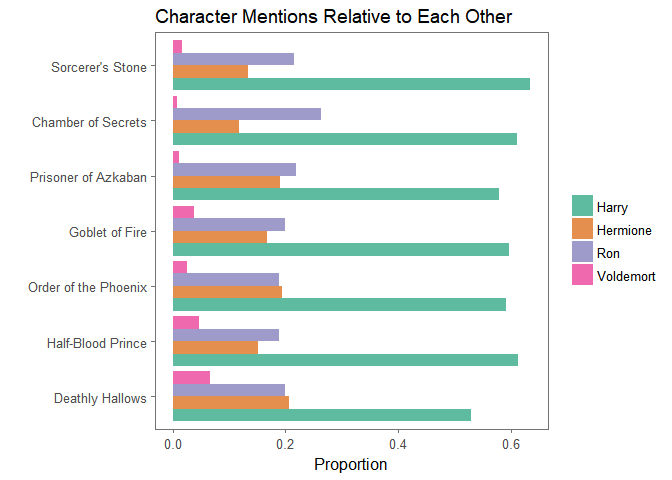
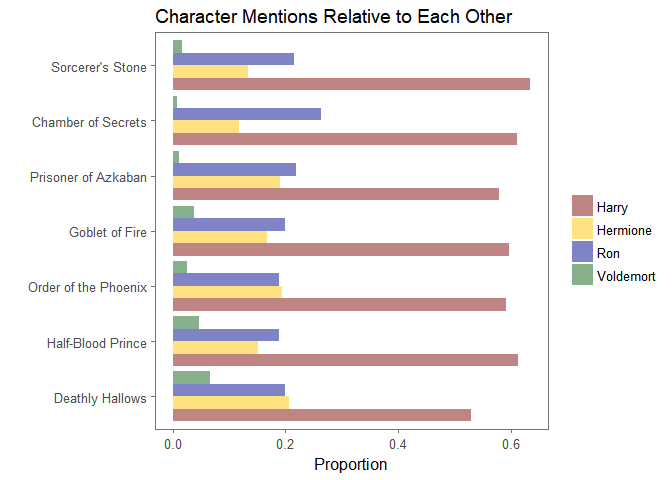
tf-idf

Changed region(s): [[0.25, 0.0625, 0.8125, 0.875], [0.8438, 0.4062, 0.9062, 0.5938]]

diff --git a/Harry_Potter_Text_Analysis.md b/Harry_Potter_Text_Analysis.md
@@ -58,6 +58,8 @@ I've identified the 4 main characters as our characters of interest. Let's find 
 ``` r
 characters_of_interest <- c("harry" = "Harry", "ron" = "Ron", "hermione" = "Hermione", "voldemort" = "Voldemort")
 
+book_colors <- c("#7F0909", "#FFC500", "#0D6217", "#946B2D", "#000A90", "#000000", "#AAAAAA")
+
 all_books_raw %>%
   count(book, word) %>%
   group_by(book) %>%
@@ -67,7 +69,7 @@ all_books_raw %>%
   geom_bar(stat = "identity", alpha = .5) +
   facet_grid(.~word,  scales = "free", labeller = as_labeller(characters_of_interest)) +
   scale_x_discrete(limits = rev(levels(all_books_raw$book))) + 
-  scale_fill_brewer(guide = FALSE, palette = "Set1") +
+  scale_fill_manual(guide = FALSE, values = book_colors) +
   coord_flip() +
   labs(title = "Proportion of Character Mentions", x = "", y = "Proportion of All Words") +
   theme_few() +
@@ -81,14 +83,16 @@ all_books_raw %>%
 Now let's find out the popularity of each character within each book. For example, we can look at how many times Ron was mentioned compared to the total mentions of all 4 characters.
 
 ``` r
+character_colors <- c("#7F0909", "#FFC500",  "#000A90","#0D6217")
+
 all_books_raw %>%
   filter(word %in% names(characters_of_interest)) %>%
   count(book, word) %>%
   group_by(book) %>%
   mutate(char_freq_by_book = n/sum(n)) %>%
   ggplot(aes(x = book, y = char_freq_by_book, fill = word)) + 
-  geom_bar(stat = "identity", alpha = .7, position = "dodge") +
-  scale_fill_brewer(palette = "Dark2", labels = c("Harry", "Hermione", "Ron", "Voldemort")) +
+  geom_bar(stat = "identity", alpha = .5, position = "dodge") +
+  scale_fill_manual(values = character_colors, labels = c("Harry", "Hermione", "Ron", "Voldemort")) +
   scale_x_discrete(limits = rev(levels(all_books_raw$book))) + 
   coord_flip() +
   labs(title = "Character Mentions Relative to Each Other", x = "", 
@@ -99,3 +103,34 @@ all_books_raw %>%
 ```
 
 ![](Harry_Potter_Text_Analysis_files/figure-markdown_github/unnamed-chunk-4-1.png)
+
+tf-idf: What words are uniquely important to each book?
+-------------------------------------------------------
+
+``` r
+all_books_tf_idf <- all_books_raw %>%
+  anti_join(stop_words) %>%
+  count(book, word) %>%
+  bind_tf_idf(word, book, n) %>%
+  group_by(book) %>%
+  top_n(10, tf_idf) %>%
+  ungroup() %>%
+  arrange(book, tf_idf) %>%
+  mutate(order = row_number())
+
+# Need to reorder by tf-idf within each book
+
+ggplot(all_books_tf_idf, aes(x = order, y = tf_idf, fill = book)) + 
+  geom_col(show.legend = FALSE, alpha = .7) +
+  scale_x_continuous(breaks = all_books_tf_idf$order, labels = all_books_tf_idf$word) +
+  scale_fill_manual(values = book_colors) + 
+  facet_wrap(~book, ncol = 3, scales = "free") +
+  coord_flip() +
+  labs(title = "Top 10 tf-idf Words in the Harry Potter Series", y = "") +
+  theme_bw() +
+  theme(strip.background = element_blank(),
+        strip.text = element_text(size = 11),
+        axis.text.y = element_text(size = 6))
+```
+
+![](Harry_Potter_Text_Analysis_files/figure-markdown_github/unnamed-chunk-5-1.png)
